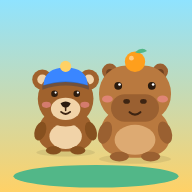
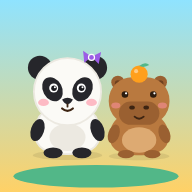
Персонажи: старшей — панда, младшему — капибара
- новый персонаж panda (SVG), экран входа и иконка приложения — панда и капибара
- профили детей вынесены в отдельный файл семьи (family.json на Drive),
  сборщик берёт его вместо поля family в week.json и проверяет персонажа
- README: раздел «Персонажи детей», шаг задания для еженедельной сессии
- SPEC.md: версия 8

Claude-Session: https://claude.ai/code/session_01Qf8MUXYZ1tXq4HeSRonVFk

diff --git a/src/characters.js b/src/characters.js
@@ -1,4 +1,5 @@
-// Свои персонажи: капибара, медвежонок и большой медведь (родители).
+// Свои персонажи: панда (старшая), капибара (младший), медвежонок (запасной)
+// и большой медведь в очках (родители).
 // Нарисованы вручную простыми фигурами SVG. mood: happy | cheer | think
 
 const EYES = {
@@ -48,6 +49,34 @@ export function capybara({ mood = 'happy', accent = '#FF9F1C' } = {}) {
   <ellipse cx="54" cy="90" rx="9" ry="6" fill="#FF8FA3" opacity=".55"/><ellipse cx="146" cy="90" rx="9" ry="6" fill="#FF8FA3" opacity=".55"/>
   <circle cx="100" cy="28" r="17" fill="${accent}"/><circle cx="94" cy="22" r="4" fill="#fff" opacity=".45"/>
   <path d="M100 12 Q112 2 120 10 Q110 16 100 12Z" fill="#52B788"/>
+  ${thinkBubble(mood)}
+</svg>`;
+}
+
+const PANDA_EYES = {
+  happy: (x, y) => `<circle cx="${x}" cy="${y}" r="7.5" fill="#fff"/><circle cx="${x + 0.5}" cy="${y + 0.5}" r="4.6" fill="#1B1B1F"/><circle cx="${x + 2}" cy="${y - 1.5}" r="1.7" fill="#fff"/>`,
+  cheer: (x, y) => `<path d="M${x - 7} ${y + 2} Q${x} ${y - 8} ${x + 7} ${y + 2}" stroke="#fff" stroke-width="4" fill="none" stroke-linecap="round"/>`,
+  think: (x, y) => `<circle cx="${x}" cy="${y}" r="7" fill="#fff"/><circle cx="${x + 1.5}" cy="${y - 2}" r="4.2" fill="#1B1B1F"/><circle cx="${x + 2.6}" cy="${y - 3.4}" r="1.4" fill="#fff"/>`,
+};
+
+export function panda({ mood = 'happy', accent = '#9B5DE5' } = {}) {
+  const white = '#FBFAF6', shade = '#ECE9E1', black = '#26262B';
+  return `<svg viewBox="0 0 200 200" xmlns="http://www.w3.org/2000/svg" aria-hidden="true">
+  <ellipse cx="100" cy="190" rx="58" ry="8" fill="#000" opacity=".08"/>
+  <path d="M46 154 C46 116 70 106 100 106 C130 106 154 116 154 154 C154 178 134 188 100 188 C66 188 46 178 46 154Z" fill="${white}" stroke="${shade}" stroke-width="3"/>
+  <ellipse cx="100" cy="160" rx="30" ry="23" fill="${shade}"/>
+  ${arms(mood, black, 148)}
+  <ellipse cx="76" cy="186" rx="16" ry="9" fill="${black}"/><ellipse cx="124" cy="186" rx="16" ry="9" fill="${black}"/>
+  <circle cx="54" cy="44" r="20" fill="${black}"/><circle cx="146" cy="44" r="20" fill="${black}"/>
+  <circle cx="100" cy="84" r="56" fill="${white}" stroke="${shade}" stroke-width="3"/>
+  <ellipse cx="75" cy="80" rx="16" ry="21" fill="${black}" transform="rotate(-28 75 80)"/>
+  <ellipse cx="125" cy="80" rx="16" ry="21" fill="${black}" transform="rotate(28 125 80)"/>
+  ${PANDA_EYES[mood](77, 78)}${PANDA_EYES[mood](123, 78)}
+  <path d="M91 97 Q100 91 109 97 Q106 104 100 105 Q94 104 91 97Z" fill="${black}"/>
+  <path d="M100 105 L100 109" stroke="#3D2412" stroke-width="3" stroke-linecap="round"/>
+  ${mouth(mood, 100, 112)}
+  <ellipse cx="60" cy="102" rx="9" ry="6" fill="#FF8FA3" opacity=".6"/><ellipse cx="140" cy="102" rx="9" ry="6" fill="#FF8FA3" opacity=".6"/>
+  <path d="M140 26 L126 16 L128 36Z M140 26 L156 18 L152 38Z" fill="${accent}"/><circle cx="140" cy="27" r="5" fill="${accent}" stroke="#fff" stroke-width="2"/>
   ${thinkBubble(mood)}
 </svg>`;
 }
@@ -103,6 +132,7 @@ export function bigBear({ mood = 'happy', accent = '#2A9D8F' } = {}) {
 export function avatar(profile, mood = 'happy') {
   if (!profile) return bigBear({ mood });
   if (profile.id === 'parent') return bigBear({ mood });
+  if (profile.companion === 'panda') return panda({ mood, accent: profile.accent || '#9B5DE5' });
   if (profile.companion === 'capybara') return capybara({ mood, accent: profile.accent || '#FF9F1C' });
   return bear({ mood, accent: profile.accent || '#3A86FF' });
 }

diff --git a/src/screens/unlock.js b/src/screens/unlock.js
@@ -3,15 +3,15 @@ import { h } from '../util.js';
 import { deriveMaster, importMaster, toB64, MIN_PASSWORD_LENGTH } from '../crypto.js';
 import { loadIndex, loadManifest } from '../content.js';
 import * as store from '../store.js';
-import { capybara, bear, bigBear } from '../characters.js';
+import { capybara, panda, bigBear } from '../characters.js';
 
 function trio() {
   return h(
     'div',
     { class: 'trio' },
-    h('div', { class: 'trio-a', html: capybara({ mood: 'happy' }) }),
+    h('div', { class: 'trio-a', html: panda({ mood: 'happy' }) }),
     h('div', { class: 'trio-b', html: bigBear({ mood: 'happy' }) }),
-    h('div', { class: 'trio-c', html: bear({ mood: 'happy' }) })
+    h('div', { class: 'trio-c', html: capybara({ mood: 'happy' }) })
   );
 }
 

diff --git a/sw.js b/sw.js
@@ -1,7 +1,7 @@
 // Service worker: приложение работает без интернета после первой загрузки.
 // Оболочка — из кэша (обновляется в фоне), content/ и settings.json — сначала из сети.
 // При изменении файлов оболочки поднимите VERSION (tools/kl.mjs check-shell напомнит).
-const VERSION = 'kl-2026-09-30-1';
+const VERSION = 'kl-2026-09-30-2';
 const SHELL = [
   './',
   'index.html',

diff --git a/README.md b/README.md
@@ -63,23 +63,24 @@ GitHub → репозиторий `kids-learning` → **Settings** → **Pages**
 3. Следующая неделя = понедельник–воскресенье после сегодняшнего дня (по местному времени семьи). Если её понедельник попадает в каникулы из settings.json — ничего не делай и закончи.
 4. Через коннектор Google Drive открой папку «УЧЁБА/09 Приложение» и найди в ней подпапку «Неделя NN (даты)», чьи даты попадают на следующую неделю. Нет такой папки — ничего не делай и закончи.
 5. В папке 4 документа: «РАСПЕЧАТКА_Неделя N_<ИМЯ> (текст для приложения)» и «УРОКИ_Неделя N_<ИМЯ> (для родителя)» на каждого ребёнка. Прочитай каждый (read_file_content) и сохрани текст как есть в .work/week-NN/src/<точное название документа>.md.
-6. Если в папке есть файл «ПРИЛОЖЕНИЕ_Неделя N (week.json)» — сохрани его как .work/week-NN/week.json. Иначе составь .work/week-NN/week.json строго по docs/CONTENT_FORMAT.md: все предметы и все страницы распечатки, ответы — только из УРОКИ-файлов, ничего не придумывать; что не получается сделать интерактивным — страницей распечатки или заданием «в тетради». Профили детей (family) уже есть в content/ — повторять не нужно. Готовый week.json положи в ту же папку Drive под именем «ПРИЛОЖЕНИЕ_Неделя N (week.json)».
-7. node tools/kl.mjs check .work/week-NN — исправь все ошибки.
-8. node tools/kl.mjs build .work/week-NN, затем node tools/kl.mjs verify и npm test — всё должно пройти.
-9. git status: изменения только в content/. Ничего из .work/ и никаких открытых текстов, имён детей и расписания не коммитить. Коммит «Неделя NN: контент», push в main.
-10. В итоге — 2–3 строки: какая неделя собрана, сколько заданий у каждого ребёнка, предупреждения сборщика.
+6. Файл «УЧЁБА/09 Приложение/ПРИЛОЖЕНИЕ_семья (family.json)» (профили детей и их персонажи) сохрани как .work/week-NN/family.json.
+7. Если в папке недели есть файл «ПРИЛОЖЕНИЕ_Неделя N (week.json)» — сохрани его как .work/week-NN/week.json. Иначе составь .work/week-NN/week.json строго по docs/CONTENT_FORMAT.md: все предметы и все страницы распечатки, ответы — только из УРОКИ-файлов, ничего не придумывать; что не получается сделать интерактивным — страницей распечатки или заданием «в тетради». Готовый week.json положи в ту же папку Drive под именем «ПРИЛОЖЕНИЕ_Неделя N (week.json)».
+8. node tools/kl.mjs check .work/week-NN — исправь все ошибки.
+9. node tools/kl.mjs build .work/week-NN, затем node tools/kl.mjs verify и npm test — всё должно пройти.
+10. git status: изменения только в content/. Ничего из .work/ и никаких открытых текстов, имён детей и расписания не коммитить. Коммит «Неделя NN: контент», push в main.
+11. В итоге — 2–3 строки: какая неделя собрана, сколько заданий у каждого ребёнка, предупреждения сборщика.
 ```
 
 Для **первой недели** (29.09–02.10) запустите то же задание один раз вручную, заменив шаг 3 на «неделя = папка «Неделя 01 (29.09–02.10)»». Готовый `week.json` для неё уже лежит в этой папке на Drive.
 
 ### Вручную
 
-1. Сессия Claude Code в этом репозитории с `FAMILY_PASSWORD` и коннектором Google Drive: «Собери неделю NN по README» — дальше шаги 4–9 выше.
+1. Сессия Claude Code в этом репозитории с `FAMILY_PASSWORD` и коннектором Google Drive: «Собери неделю NN по README» — дальше шаги 4–10 выше.
 2. Или на своём компьютере (Node 20+):
 
 ```bash
 mkdir -p .work/week-02/src               # положите сюда 4 документа в Markdown (Файл → Скачать → Markdown)
-# напишите .work/week-02/week.json по docs/CONTENT_FORMAT.md
+# положите .work/week-02/family.json (профили детей) и напишите .work/week-02/week.json по docs/CONTENT_FORMAT.md
 node tools/kl.mjs check .work/week-02
 FAMILY_PASSWORD='…' node tools/kl.mjs build .work/week-02
 FAMILY_PASSWORD='…' node tools/kl.mjs verify
@@ -89,6 +90,10 @@ git add content && git commit -m "Неделя 02: контент" && git push
 Добавление недели — это только новые файлы в `content/`, код не меняется. Приложение само показывает текущую неделю по датам, прошлые — в «Прошлых неделях». Повторная сборка той же недели заменяет её.
 
 Прочие команды: `node tools/kl.mjs list` — недели; `remove <ГГГГ-ММ-ДД>` — убрать неделю; `rekey` — сменить пароль (`OLD_FAMILY_PASSWORD` → `FAMILY_PASSWORD`, потом пароль вводится заново на каждом планшете).
+
+## Персонажи детей
+
+У каждого профиля свой персонаж и цвет — по ним дети находят свою карточку на экране «Кто сегодня учится?»: у старшей — **панда**, у младшего — **капибара**, у родителей — большой медведь в очках. Меняется в файле «УЧЁБА/09 Приложение/ПРИЛОЖЕНИЕ_семья (family.json)» на Drive (поля `companion`, `companionName`, `color`) и вступает в силу со следующей сборкой недели.
 
 ## Каникулы
 

diff --git a/SPEC.md b/SPEC.md
@@ -1,6 +1,6 @@
 # ТЗ — приложение kids-learning
 
-Обновлено: 30.09.2026, версия 7 (реализация первой сборки; ТЗ v6 без изменений по сути)
+Обновлено: 30.09.2026, версия 8 (персонажи: старшая — панда, младший — капибара)
 
 ## Идея
 
@@ -32,6 +32,8 @@
 
 Эти документы кладёт на Drive сессия, которая готовит материалы недели.
 
+Профили детей (имя, персонаж, цвет) — отдельный файл «УЧЁБА/09 Приложение/ПРИЛОЖЕНИЕ_семья (family.json)»: поправил его — персонаж меняется со следующей сборкой, без правки кода.
+
 Сборка превращает их в `week.json` (задания в формате docs/CONTENT_FORMAT.md) и кладёт его в ту же папку как «ПРИЛОЖЕНИЕ_Неделя N (week.json)» — если он там уже есть, берётся он (так неделю можно поправить руками и пересобрать).
 
 Новая неделя загружается в пятницу вечером на следующую неделю. Приложение само показывает текущую неделю по датам, прошлые недели доступны в архиве. Добавление недели — это новые зашифрованные файлы в content/, без правки кода. Исходные тексты в репозиторий не коммитить (временные файлы закрыть в .gitignore).
@@ -60,7 +62,7 @@
 
 ## Стиль
 
-Свои персонажи — медведи и капибары, нарисованные в SVG; у каждого ребёнка свой персонаж-спутник. Ярко, дружелюбно, крупные кнопки, без мелкого текста. Не копировать персонажей, логотипы и узнаваемый дизайн Duolingo и Quill.
+Свои персонажи — медведи и капибары, нарисованные в SVG; у каждого ребёнка свой персонаж-спутник: у старшей (дочь, 10 лет) — панда, у младшего (сын, 7 лет) — капибара, у родителей — большой медведь в очках. По персонажу и цвету карточки дети различают свой профиль. Ярко, дружелюбно, крупные кнопки, без мелкого текста. Не копировать персонажей, логотипы и узнаваемый дизайн Duolingo и Quill.
 
 ## Техника
 
@@ -81,7 +83,7 @@
 
 1. Сделано: вход (семейный пароль → PIN), персонажи, экран ребёнка («Сегодня», дорожка, звёзды, уровни, серия, повтор ошибок, архив, страницы распечатки, каникулы), прохождение урока со всеми типами заданий, экран родителя (уроки целиком, расписание, прогресс, ошибки, подтверждение «в тетради», настройки), офлайн-режим, синхронизация, сборщик недели, самопроверка `npm test`, README с заданием для еженедельной сессии.
 2. Проверено в Chromium в размере планшета 1180×820 и 820×1180: все типы заданий, повтор ошибок, каникулы, день без уроков, работа без сети, синхронизация двух устройств через локальный сервер с кодом воркера.
-3. Неделя 1: тексты 4 документов прочитаны с Drive, задания составлены, «ПРИЛОЖЕНИЕ_Неделя 1 (week.json)» лежит в папке недели на Drive. Зашифрованный контент в content/ не собран и не закоммичен: FAMILY_PASSWORD не задан. После его задания — один запуск задания из README для недели 01.
+3. Неделя 1: тексты 4 документов прочитаны с Drive, задания составлены, «ПРИЛОЖЕНИЕ_Неделя 1 (week.json)» лежит в папке недели на Drive, «ПРИЛОЖЕНИЕ_семья (family.json)» — в «09 Приложение». Зашифрованный контент в content/ не собран и не закоммичен: FAMILY_PASSWORD не задан. После его задания — один запуск задания из README для недели 01.
 
 ## Принятые решения
 

diff --git a/docs/CONTENT_FORMAT.md b/docs/CONTENT_FORMAT.md
@@ -5,6 +5,7 @@
 ```
 .work/week-NN/
   week.json          ← задания недели (этот формат)
+  family.json        ← профили детей: копия «УЧЁБА/09 Приложение/ПРИЛОЖЕНИЕ_семья (family.json)»
   src/               ← тексты 4 документов с Google Drive, как есть (Markdown)
     РАСПЕЧАТКА_Неделя N_<ИМЯ> (текст для приложения).md
     УРОКИ_Неделя N_<ИМЯ> (для родителя).md
@@ -27,22 +28,25 @@
   "from": "2026-10-06",
   "to": "2026-10-09",
   "title": "Неделя 2",
-  "family": { "kids": [ … ] },
   "kids": { "<КЛЮЧ>": { … }, "<КЛЮЧ>": { … } }
 }
 ```
 
 - `from` / `to` — первый и последний учебный день (ГГГГ-ММ-ДД). `from` — идентификатор недели: повторная сборка с тем же `from` заменяет неделю.
 - `<КЛЮЧ>` — имя ребёнка **как в названии документов** (например, то, что стоит после `Неделя N_`).
-- `family` — нужен только при первой сборке или чтобы поменять профиль. Потом профили хранятся в зашифрованном `content/index.enc`.
+## Профили детей (family.json)
+
+Один файл на всю семью, на Drive — «УЧЁБА/09 Приложение/ПРИЛОЖЕНИЕ_семья (family.json)». При каждой сборке он копируется в папку недели как `family.json`; сборщик обновляет по нему профили в зашифрованном `content/index.enc`. Чтобы поменять персонажа, цвет или имя — поправьте этот файл и пересоберите любую неделю. (Поле `family` внутри week.json тоже понимается, но `family.json` главнее.)
 
 ```json
-{ "key": "<КЛЮЧ>", "name": "Имя", "gender": "f", "age": 10,
-  "companion": "capybara", "companionName": "Капа",
-  "color": "#B388EB", "accent": "#FF9F1C", "uiLang": "ru" }
+{ "kids": [
+  { "key": "<КЛЮЧ>", "name": "Имя", "gender": "f", "age": 10,
+    "companion": "panda", "companionName": "Бао",
+    "color": "#B388EB", "accent": "#9B5DE5", "uiLang": "ru" }
+] }
 ```
 
-`companion`: `capybara` или `bear`. `uiLang` — язык «рамки» экрана ребёнка (`ru` / `en`); внутри предмета язык всегда язык предмета.
+`companion`: `panda`, `capybara` или `bear` (у родителей всегда большой медведь в очках). `color` — цвет карточки и экрана ребёнка, `accent` — цвет бантика у панды / мандарина у капибары / шапки у медвежонка. `uiLang` — язык «рамки» экрана ребёнка (`ru` / `en`); внутри предмета язык всегда язык предмета.
 
 ## Ребёнок
 
